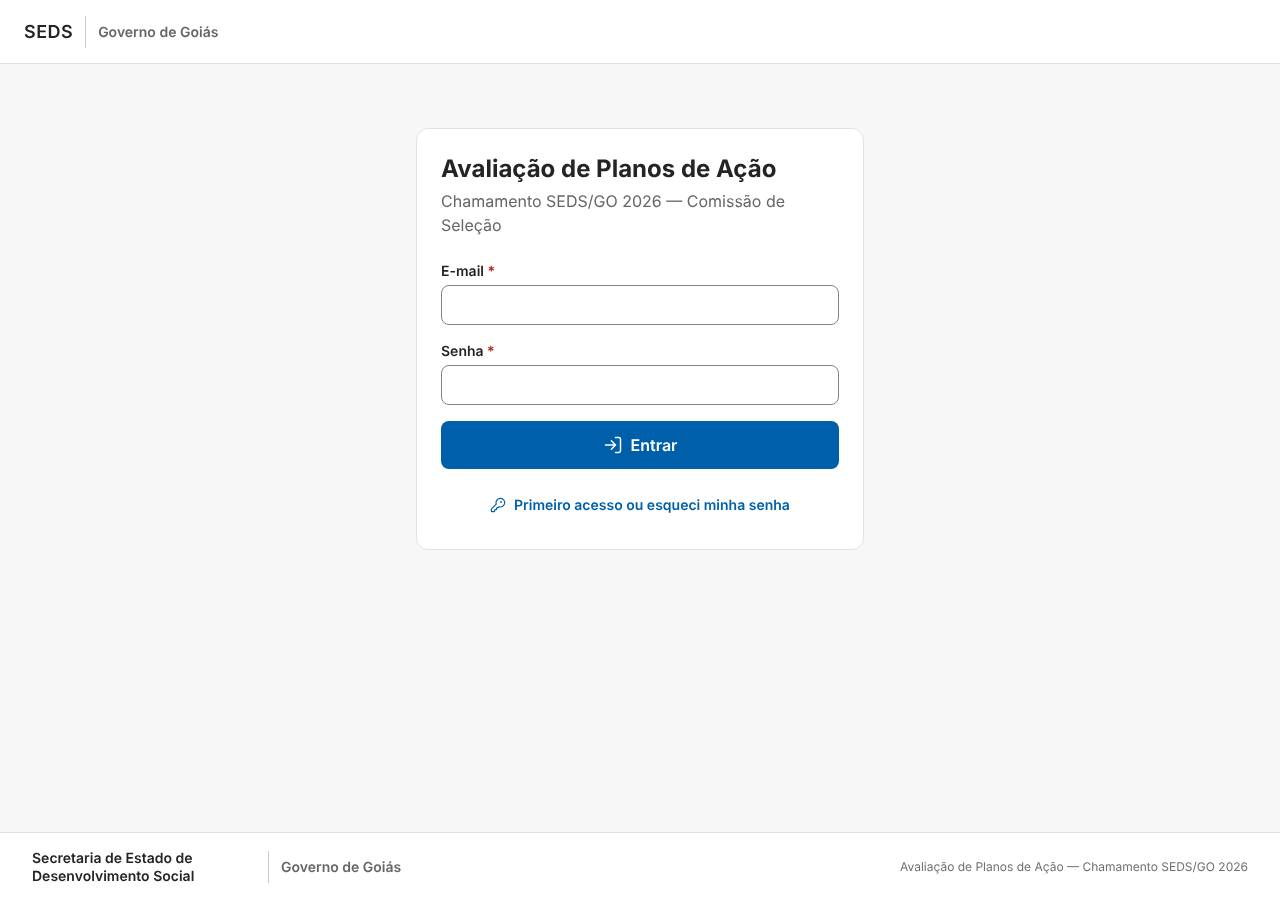
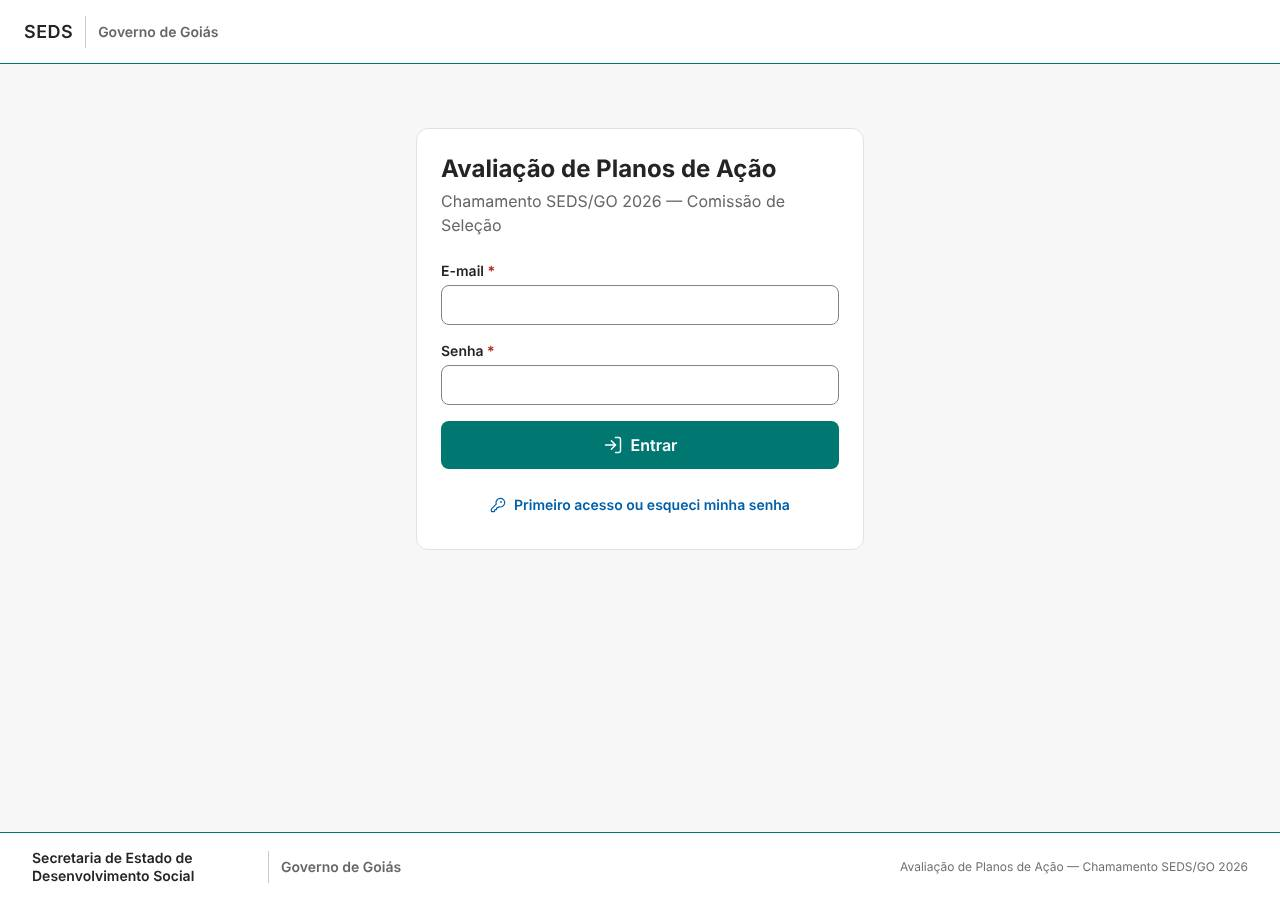
feat: identidade visual — botão Entrar e linhas entre seções em #007770, logotipo no cabeçalho
- Botão "Entrar" do login: fundo teal da marca (tokens --sds-button-login-*, hover e
  pressionado nos tons seguintes da escala), só nesta instância; texto branco (5,4:1).
- Linhas que separam as seções (borda inferior do cabeçalho do app e do login e
  borda superior do rodapé): token --sds-border-secao, mesma espessura.
- Cabeçalho: logotipo src/public/logo-seds-goias.png no lugar do texto "SEDS |
  Governo de Goiás" (Brand.tsx, import.meta.glob; alt "SEDS - Governo de Goiás",
  object-contain, h-10); sem o arquivo, a marca continua em texto.

Claude-Session: https://claude.ai/code/session_01KQRCi9mqBiCRHCxY5mSTDg

Changed region(s): [[0.3438, 0.4667, 0.6562, 0.5289]]

diff --git a/src/components/ui/layout.test.tsx b/src/components/ui/layout.test.tsx
@@ -4,7 +4,7 @@ import userEvent from '@testing-library/user-event'
 import { Plus } from 'lucide-react'
 import { MemoryRouter } from 'react-router'
 import { describe, expect, it } from 'vitest'
-import { Brand, MARCAS } from './Brand'
+import { Brand, LOGO_CABECALHO, MARCAS, logoDoCabecalho } from './Brand'
 import { Button } from './Button'
 import { ButtonLink } from './ButtonLink'
 import { Card } from './Card'
@@ -15,9 +15,29 @@ import { PageHeader } from './PageHeader'
 const comRotas = (no: React.ReactNode) => render(<MemoryRouter>{no}</MemoryRouter>)
 
 describe('Brand (marcas SEDS e Governo de Goiás)', () => {
-  it('sem arquivos em public/brand: nome em texto, na hierarquia do Kit (Secretaria → Governo de Goiás)', () => {
+  it('logotipo do cabeçalho: o arquivo src/public/logo-seds-goias.png, se existir (senão, texto)', () => {
+    expect(logoDoCabecalho({ '../../public/logo-seds-goias.png': '/assets/logo-seds-goias-abc.png' })).toBe('/assets/logo-seds-goias-abc.png')
+    expect(logoDoCabecalho({})).toBeNull()
+  })
+
+  it('cabeçalho com o logotipo: imagem (alt "SEDS - Governo de Goiás", contain, proporção mantida) sem repetir o texto', () => {
+    render(<Brand variante="light" logo="/assets/logo-seds-goias.png" />)
+    const logo = screen.getByRole('img', { name: 'SEDS - Governo de Goiás' })
+    expect(logo.tagName).toBe('IMG')
+    expect(logo).toHaveAttribute('src', '/assets/logo-seds-goias.png')
+    expect(logo).toHaveClass('object-contain', 'w-auto', 'h-10')
+    expect(screen.queryByText('SEDS')).not.toBeInTheDocument()
+    expect(screen.queryByText('Governo de Goiás')).not.toBeInTheDocument()
+  })
+
+  it('rodapé (completa) e outras variantes continuam em texto, mesmo com o logotipo', () => {
+    render(<Brand variante="light" completa logo="/assets/logo-seds-goias.png" />)
+    expect(screen.getByText('Secretaria de Estado de Desenvolvimento Social')).toBeInTheDocument()
+  })
+
+  it('sem arquivos em public/brand nem logotipo: nome em texto, na hierarquia do Kit (Secretaria → Governo de Goiás)', () => {
     expect(MARCAS).toEqual({ light: null, dark: null, monochrome: null })
-    render(<Brand variante="light" />)
+    render(<Brand variante="light" logo={null} />)
     const marca = screen.getByRole('img', { name: 'Secretaria de Estado de Desenvolvimento Social — Governo de Goiás' })
     const textos = [...marca.querySelectorAll('[data-nivel]')].map((n) => n.textContent)
     expect(textos).toEqual(['SEDS', 'Governo de Goiás'])
@@ -28,13 +48,17 @@ describe('Brand (marcas SEDS e Governo de Goiás)', () => {
     ['dark', 'text-text-inverse'],
     ['monochrome', 'text-current'],
   ] as const)('variante %s', (variante, classe) => {
-    render(<Brand variante={variante} />)
+    render(<Brand variante={variante} logo={null} />)
     expect(screen.getByRole('img')).toHaveClass(classe)
   })
 
   it('versão completa (login e rodapé): nome da Secretaria por extenso', () => {
     render(<Brand variante="light" completa />)
     expect(screen.getByText('Secretaria de Estado de Desenvolvimento Social')).toBeInTheDocument()
+  })
+
+  it('padrão do cabeçalho: o logotipo encontrado no build (ou null, enquanto o arquivo não for adicionado)', () => {
+    expect(LOGO_CABECALHO === null || typeof LOGO_CABECALHO === 'string').toBe(true)
   })
 })
 

diff --git a/src/components/ui/Brand.tsx b/src/components/ui/Brand.tsx
@@ -4,6 +4,8 @@
 //
 // Só usamos arquivos oficiais colocados em public/brand/. Enquanto não houver, a marca é escrita em texto.
 // TODO (README, "Marcas"): ao receber os arquivos, preencher MARCAS com os caminhos (ex.: '/brand/seds-governo-light.svg').
+// Cabeçalho (variante light, não completa): logotipo institucional src/public/logo-seds-goias.png, importado pelo Vite
+// (import.meta.glob: com o arquivo, URL com hash no build; sem ele, a marca continua em texto e o build não quebra).
 
 import { cx } from './cx'
 
@@ -16,6 +18,16 @@ export const MARCAS: Record<VarianteMarca, string | null> = {
   monochrome: null,
 }
 
+/** URL do logotipo do cabeçalho entre os arquivos encontrados pelo Vite (vazio = ainda não adicionado). */
+export function logoDoCabecalho(arquivos: Record<string, string>): string | null {
+  return arquivos['../../public/logo-seds-goias.png'] ?? null
+}
+
+export const LOGO_CABECALHO = logoDoCabecalho(
+  import.meta.glob<string>('../../public/logo-seds-goias.png', { eager: true, query: '?url', import: 'default' }),
+)
+const ALT_LOGO = 'SEDS - Governo de Goiás'
+
 export { GOVERNO, SECRETARIA } from '../../lib/marca'
 import { GOVERNO, SECRETARIA } from '../../lib/marca'
 const NOME_ACESSIVEL = `${SECRETARIA} — ${GOVERNO}`
@@ -26,7 +38,21 @@ const CORES: Record<VarianteMarca, { base: string; secundaria: string; divisor: 
   monochrome: { base: 'text-current', secundaria: 'text-current', divisor: 'bg-current' },
 }
 
-export function Brand({ variante = 'light', completa = false, className }: { variante?: VarianteMarca; completa?: boolean; className?: string }) {
+export function Brand({
+  variante = 'light',
+  completa = false,
+  logo = LOGO_CABECALHO,
+  className,
+}: {
+  variante?: VarianteMarca
+  completa?: boolean
+  /** Logotipo do cabeçalho (padrão: src/public/logo-seds-goias.png, se existir). */
+  logo?: string | null
+  className?: string
+}) {
+  if (logo && variante === 'light' && !completa) {
+    return <img src={logo} alt={ALT_LOGO} className={cx('h-10 w-auto max-w-40 object-contain sm:max-w-56', className)} />
+  }
   const arquivo = MARCAS[variante]
   if (arquivo) return <img src={arquivo} alt={NOME_ACESSIVEL} className={cx('h-10 w-auto', className)} />
   const cores = CORES[variante]

diff --git a/src/styles/tokens.css b/src/styles/tokens.css
@@ -120,6 +120,12 @@
      o campo; #E2E2E2 e #CCCCCC ficam abaixo disso), por isso Neutral 500. */
   --sds-border-default: var(--sds-neutral-200);
   --sds-border-strong: var(--sds-neutral-300);
+  /* Identidade visual (teal da marca): linhas que separam as seções da página (cabeçalho | conteúdo | rodapé) e o
+     botão "Entrar" do login, com hover e pressionado nos tons seguintes da escala. */
+  --sds-border-secao: var(--sds-teal-500);
+  --sds-action-identidade: var(--sds-teal-500);
+  --sds-action-identidade-hover: var(--sds-teal-600);
+  --sds-action-identidade-active: var(--sds-teal-700);
   --sds-border-focus: var(--sds-primary-600);
   --sds-border-input: var(--sds-neutral-500);
   --sds-border-input-hover: var(--sds-neutral-700);
@@ -196,6 +202,10 @@
   --sds-button-primary-bg-hover: var(--sds-action-primary-hover);
   --sds-button-primary-bg-active: var(--sds-action-primary-active);
   --sds-button-primary-fg: var(--sds-text-inverse);
+  /* Botão "Entrar" do login (só essa instância): teal da identidade visual; hover e pressionado nos tons seguintes. */
+  --sds-button-login-bg: var(--sds-action-identidade);
+  --sds-button-login-bg-hover: var(--sds-action-identidade-hover);
+  --sds-button-login-bg-active: var(--sds-action-identidade-active);
   --sds-button-secondary-bg: var(--sds-background-surface);
   --sds-button-secondary-bg-hover: var(--sds-action-subtle);
   --sds-button-secondary-fg: var(--sds-action-primary);

diff --git a/src/features/auth/Login.test.tsx b/src/features/auth/Login.test.tsx
@@ -1,0 +1,30 @@
+// @vitest-environment jsdom
+// Login: o botão "Entrar" usa a cor da identidade visual (#007770, tokens --sds-button-login-*), só nesta instância;
+// os outros botões continuam com o primário do DS.
+import { render, screen } from '@testing-library/react'
+import { MemoryRouter } from 'react-router'
+import { describe, expect, it, vi } from 'vitest'
+import { Login } from './Login'
+
+vi.mock('./useUsuario', () => ({ useUsuario: () => ({ carregando: false, usuario: null, sair: vi.fn() }) }))
+
+describe('Login — botão Entrar', () => {
+  it('fundo, hover e pressionado com os tokens do login; texto, tamanho e estados do Button preservados', () => {
+    render(
+      <MemoryRouter>
+        <Login />
+      </MemoryRouter>,
+    )
+    const entrar = screen.getByRole('button', { name: 'Entrar' })
+    expect(entrar).toHaveClass(
+      '[--sds-button-primary-bg:var(--sds-button-login-bg)]',
+      '[--sds-button-primary-bg-hover:var(--sds-button-login-bg-hover)]',
+      '[--sds-button-primary-bg-active:var(--sds-button-login-bg-active)]',
+      'bg-button-primary-bg',
+      'text-button-primary-fg',
+      'w-full',
+    )
+    const outro = screen.getByRole('button', { name: /Primeiro acesso/ })
+    expect(outro.className).not.toContain('button-login')
+  })
+})

diff --git a/src/components/templates/templates.test.tsx b/src/components/templates/templates.test.tsx
@@ -66,6 +66,9 @@ describe('AppShell', () => {
     expect(cabecalho).toHaveTextContent('Ana Lima')
     expect(cabecalho).toHaveTextContent('Administrador')
     expect(cabecalho).toHaveClass('h-16')
+    // Linhas que separam as seções (cabeçalho | conteúdo | rodapé): cor de seção (#007770), mesma espessura.
+    expect(cabecalho).toHaveClass('border-b', 'border-border-secao')
+    expect(screen.getByRole('contentinfo')).toHaveClass('border-t', 'border-border-secao')
     await userEvent.click(within(cabecalho).getByRole('button', { name: 'Sair' }))
     expect(simulado.sair).toHaveBeenCalled()
   })
@@ -137,6 +140,8 @@ describe('AuthPage', () => {
     expect(screen.getByRole('main')).toHaveTextContent('formulário')
     expect(screen.getByRole('heading', { level: 1, name: 'Entrar' })).toBeInTheDocument()
     expect(screen.getByRole('contentinfo')).toHaveTextContent('Secretaria de Estado de Desenvolvimento Social')
+    expect(screen.getByRole('banner')).toHaveClass('border-b', 'border-border-secao')
+    expect(screen.getByRole('contentinfo')).toHaveClass('border-t', 'border-border-secao')
   })
 })
 

diff --git a/tests/design/pares.ts b/tests/design/pares.ts
@@ -34,6 +34,9 @@ export const PARES: Par[] = [
   t('sds-button-primary-fg', 'sds-button-primary-bg', 'botão primário'),
   t('sds-button-primary-fg', 'sds-button-primary-bg-hover', 'botão primário (hover)'),
   t('sds-button-primary-fg', 'sds-button-primary-bg-active', 'botão primário (pressionado)'),
+  t('sds-button-primary-fg', 'sds-button-login-bg', 'botão Entrar do login (teal #007770)'),
+  t('sds-button-primary-fg', 'sds-button-login-bg-hover', 'botão Entrar do login (hover)'),
+  t('sds-button-primary-fg', 'sds-button-login-bg-active', 'botão Entrar do login (pressionado)'),
   t('sds-button-secondary-fg', 'sds-button-secondary-bg', 'botão secundário'),
   t('sds-button-secondary-fg', 'sds-button-secondary-bg-hover', 'botão secundário (hover)'),
   t('sds-button-tertiary-fg', 'sds-background-surface', 'botão terciário'),

diff --git a/src/features/auth/Login.tsx b/src/features/auth/Login.tsx
@@ -72,7 +72,14 @@ export function Login() {
             {aviso}
           </Alert>
         )}
-        <Button type="submit" tamanho="lg" icone={LogIn} carregando={enviando} className="w-full">
+        {/* Cor da identidade visual (teal da marca) só neste botão: troca os tokens do primário nesta instância. */}
+        <Button
+          type="submit"
+          tamanho="lg"
+          icone={LogIn}
+          carregando={enviando}
+          className="w-full [--sds-button-primary-bg:var(--sds-button-login-bg)] [--sds-button-primary-bg-hover:var(--sds-button-login-bg-hover)] [--sds-button-primary-bg-active:var(--sds-button-login-bg-active)]"
+        >
           Entrar
         </Button>
         <Button variante="tertiary" icone={KeyRound} onClick={() => void pedirSenha()} className="w-full">

diff --git a/tests/design/tokens.test.ts b/tests/design/tokens.test.ts
@@ -98,3 +98,17 @@ describe('níveis', () => {
     expect(v.get('sds-sidebar-width-collapsed')).toBe('72px')
   })
 })
+
+describe('identidade visual pontual: botão Entrar e linhas entre seções (#007770, teal 500 do DS)', () => {
+  it('botão Entrar do login: fundo #007770; hover e pressionado nos tons seguintes da escala teal', () => {
+    expect(cor('sds-button-login-bg')).toBe('#007770')
+    expect(cor('sds-button-login-bg-hover')).toBe('#00615B')
+    expect(cor('sds-button-login-bg-active')).toBe('#004D49')
+  })
+
+  it('linhas que separam as seções (cabeçalho e rodapé): #007770; bordas comuns continuam neutras', () => {
+    expect(cor('sds-border-secao')).toBe('#007770')
+    expect(cor('sds-border-default')).not.toBe('#007770')
+  })
+})
+

diff --git a/src/components/templates/AuthPage.tsx b/src/components/templates/AuthPage.tsx
@@ -10,7 +10,7 @@ export function AuthPage({ titulo, subtitulo, children }: { titulo: string; subt
   return (
     <div data-template="AuthPage" className="flex min-h-screen flex-col bg-background-default text-text-primary">
       <LinkPularConteudo />
-      <header className="flex h-16 items-center border-b border-border-default bg-background-surface px-4 md:px-6">
+      <header className="flex h-16 items-center border-b border-border-secao bg-background-surface px-4 md:px-6">
         <Brand variante="light" />
       </header>
       <main id="conteudo" tabIndex={-1} className="flex flex-1 items-start justify-center px-4 py-10 focus:outline-none md:py-16">

diff --git a/src/components/templates/RodapeInstitucional.tsx b/src/components/templates/RodapeInstitucional.tsx
@@ -4,7 +4,7 @@ import { Brand } from '../ui/Brand'
 
 export function RodapeInstitucional() {
   return (
-    <footer className="border-t border-border-default bg-background-surface">
+    <footer className="border-t border-border-secao bg-background-surface">
       <div className="mx-auto flex max-w-[1440px] flex-wrap items-center justify-between gap-3 px-4 py-4 md:px-6 xl:px-8">
         <Brand variante="light" completa />
         <p className="text-caption text-text-muted">Avaliação de Planos de Ação — Chamamento SEDS/GO 2026</p>

diff --git a/src/components/templates/AppShell.tsx b/src/components/templates/AppShell.tsx
@@ -63,7 +63,7 @@ export function AppShell() {
   return (
     <div className="flex min-h-screen flex-col bg-background-default text-text-primary">
       <LinkPularConteudo />
-      <header className="sticky top-0 z-30 flex h-16 shrink-0 items-center gap-3 border-b border-border-default bg-background-surface px-4 md:px-6">
+      <header className="sticky top-0 z-30 flex h-16 shrink-0 items-center gap-3 border-b border-border-secao bg-background-surface px-4 md:px-6">
         <Button
           variante="tertiary"
           tamanho="md"

diff --git a/src/index.css b/src/index.css
@@ -83,6 +83,7 @@
   --color-text-positive: var(--sds-text-positive);
   --color-border-default: var(--sds-border-default);
   --color-border-strong: var(--sds-border-strong);
+  --color-border-secao: var(--sds-border-secao);
   --color-border-focus: var(--sds-border-focus);
   --color-border-input: var(--sds-border-input);
   --color-border-input-hover: var(--sds-border-input-hover);
